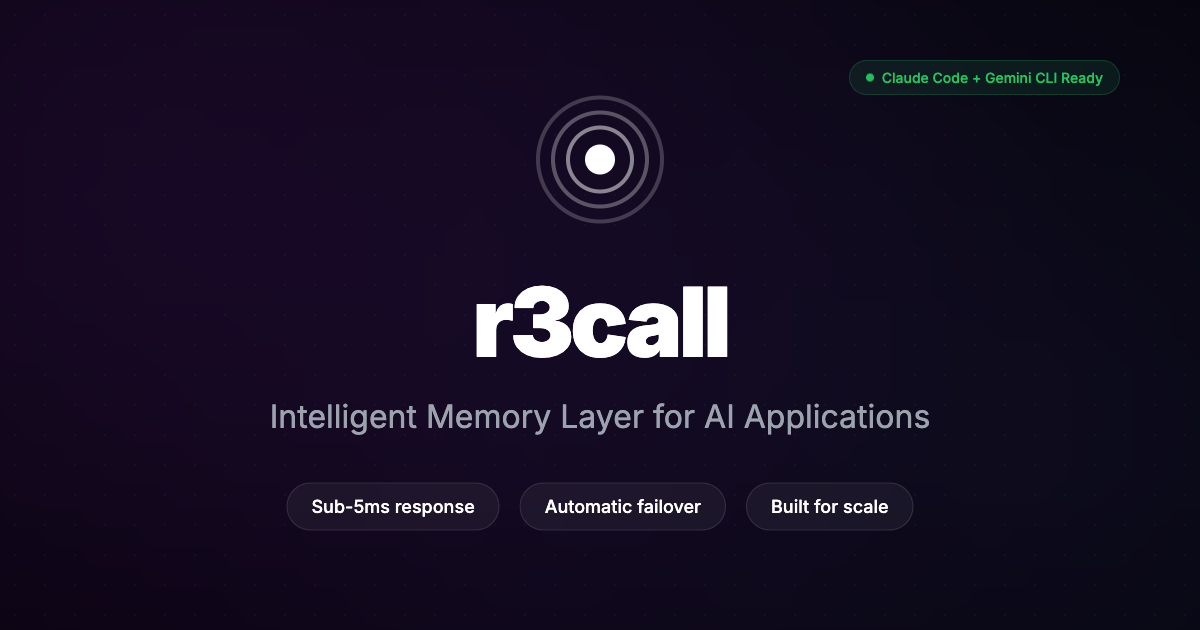
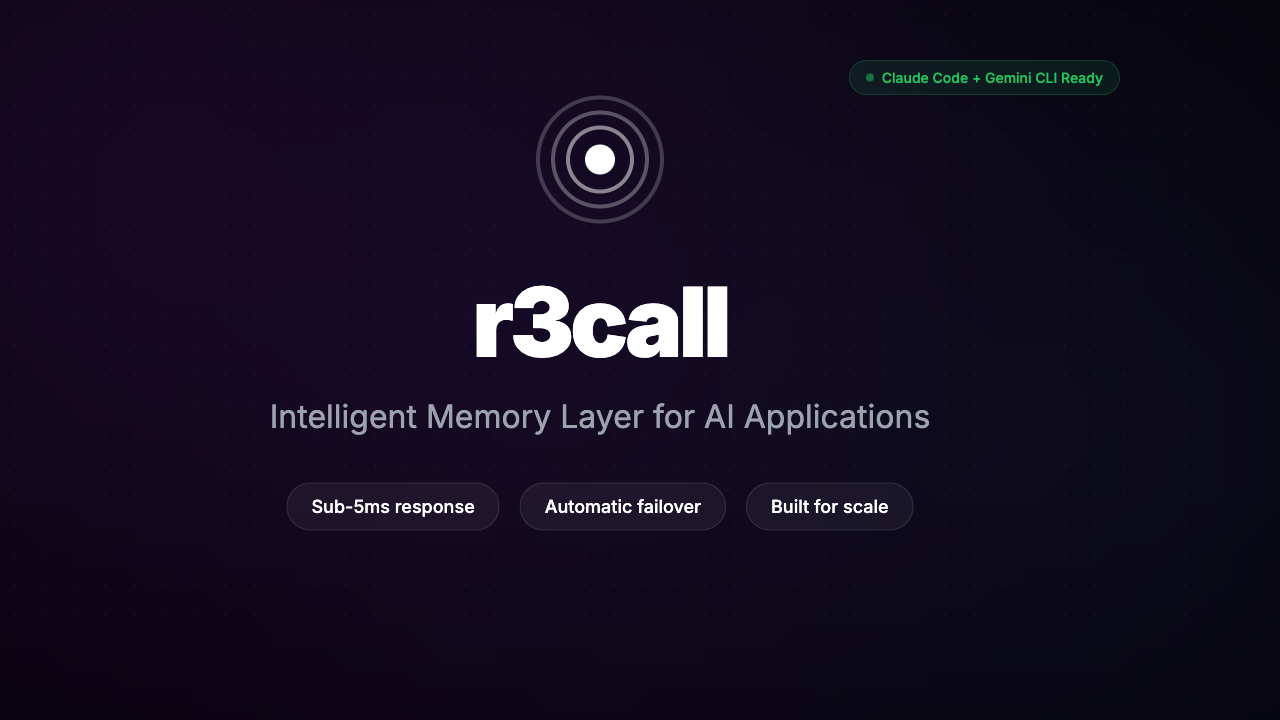
feat: update package to unscoped name and high-res og-image
- Changed package name from @newth.ai/r3call to r3call
- Published to npm as r3call v1.2.1
- Generated 2x resolution og-image (2400x1260) for sharper quality
- Updated all references to use unscoped package name
- Package now available at: npm install r3call

diff --git a/website/generate-og.html b/website/generate-og.html
@@ -1,0 +1,209 @@
+<!DOCTYPE html>
+<html>
+<head>
+  <style>
+    @import url('https://fonts.googleapis.com/css2?family=Inter:wght@400;500;600;700;900&display=swap');
+
+    body {
+      margin: 0;
+      padding: 0;
+      width: 1200px;
+      height: 630px;
+      font-family: 'Inter', -apple-system, BlinkMacSystemFont, 'Segoe UI', sans-serif;
+      background: #000000;
+      display: flex;
+      flex-direction: column;
+      align-items: center;
+      justify-content: center;
+      position: relative;
+      overflow: hidden;
+    }
+
+    /* Animated gradient background similar to website */
+    .gradient-bg {
+      position: absolute;
+      width: 200%;
+      height: 200%;
+      top: -50%;
+      left: -50%;
+      background: radial-gradient(circle at 30% 40%, rgba(147, 51, 234, 0.15) 0%, transparent 50%),
+                  radial-gradient(circle at 70% 60%, rgba(99, 102, 241, 0.1) 0%, transparent 50%),
+                  radial-gradient(circle at 50% 50%, rgba(147, 51, 234, 0.05) 0%, transparent 70%);
+      filter: blur(80px);
+    }
+
+    /* Dot grid pattern */
+    .dot-pattern {
+      position: absolute;
+      width: 100%;
+      height: 100%;
+      background-image: radial-gradient(circle, rgba(255, 255, 255, 0.03) 1px, transparent 1px);
+      background-size: 30px 30px;
+    }
+
+    .content {
+      position: relative;
+      z-index: 10;
+      text-align: center;
+      display: flex;
+      flex-direction: column;
+      align-items: center;
+      gap: 24px;
+    }
+
+    /* Logo with gradient circle */
+    .logo {
+      width: 120px;
+      height: 120px;
+      position: relative;
+      display: flex;
+      align-items: center;
+      justify-content: center;
+      margin-bottom: 30px;
+    }
+
+    .logo-circles {
+      width: 120px;
+      height: 120px;
+      position: relative;
+      display: flex;
+      align-items: center;
+      justify-content: center;
+    }
+
+    .logo-circle {
+      position: absolute;
+      border: 2px solid rgba(255, 255, 255, 0.8);
+      border-radius: 50%;
+      background: transparent;
+    }
+
+    /* Concentric circles like the actual site logo */
+    .logo-circle:nth-child(1) {
+      width: 120px;
+      height: 120px;
+      border: 4px solid rgba(255, 255, 255, 0.2);
+    }
+
+    .logo-circle:nth-child(2) {
+      width: 90px;
+      height: 90px;
+      border: 4px solid rgba(255, 255, 255, 0.3);
+    }
+
+    .logo-circle:nth-child(3) {
+      width: 60px;
+      height: 60px;
+      border: 4px solid rgba(255, 255, 255, 0.5);
+    }
+
+    .logo-circle:nth-child(4) {
+      width: 30px;
+      height: 30px;
+      background: white;
+      border: none;
+    }
+
+    .title {
+      font-size: 96px;
+      font-weight: 900;
+      color: white;
+      letter-spacing: -0.04em;
+      margin: 0;
+      line-height: 1;
+    }
+
+    .subtitle {
+      font-size: 32px;
+      font-weight: 400;
+      color: rgba(156, 163, 175, 1);
+      margin: 0;
+      line-height: 1.4;
+      max-width: 800px;
+    }
+
+    .pills {
+      display: flex;
+      gap: 20px;
+      margin-top: 20px;
+    }
+
+    .pill {
+      padding: 12px 24px;
+      background: rgba(255, 255, 255, 0.05);
+      border: 1px solid rgba(255, 255, 255, 0.1);
+      border-radius: 9999px;
+      color: white;
+      font-size: 18px;
+      font-weight: 500;
+      backdrop-filter: blur(10px);
+    }
+
+    .badge {
+      position: absolute;
+      top: 60px;
+      right: 80px;
+      background: rgba(34, 197, 94, 0.1);
+      border: 1px solid rgba(34, 197, 94, 0.2);
+      border-radius: 9999px;
+      padding: 8px 16px;
+      display: flex;
+      align-items: center;
+      gap: 8px;
+      backdrop-filter: blur(10px);
+    }
+
+    .badge-dot {
+      width: 8px;
+      height: 8px;
+      background: #22c55e;
+      border-radius: 50%;
+      animation: pulse 2s infinite;
+    }
+
+    .badge-text {
+      color: #22c55e;
+      font-size: 14px;
+      font-weight: 500;
+    }
+
+    @keyframes pulse {
+      0%, 100% {
+        opacity: 1;
+      }
+      50% {
+        opacity: 0.5;
+      }
+    }
+  </style>
+</head>
+<body>
+  <div class="gradient-bg"></div>
+  <div class="dot-pattern"></div>
+
+  <div class="badge">
+    <div class="badge-dot"></div>
+    <span class="badge-text">Claude Code + Gemini CLI Ready</span>
+  </div>
+
+  <div class="content">
+    <div class="logo">
+      <div class="logo-circles">
+        <div class="logo-circle"></div>
+        <div class="logo-circle"></div>
+        <div class="logo-circle"></div>
+        <div class="logo-circle"></div>
+      </div>
+    </div>
+
+    <h1 class="title">r3call</h1>
+    <p class="subtitle">Intelligent Memory Layer for AI Applications</p>
+
+    <div class="pills">
+      <div class="pill">Sub-5ms response</div>
+      <div class="pill">Automatic failover</div>
+      <div class="pill">Built for scale</div>
+    </div>
+  </div>
+</body>
+</html>

diff --git a/smithery.md b/smithery.md
@@ -21,7 +21,7 @@ claude mcp add r3call "npx r3call"
 
 3. **Required Information**:
    - **Package Name**: `r3call`
-   - **NPM Package**: `r3call` (or `@newth.ai/r3call` if using scoped)
+   - **NPM Package**: `r3call`
    - **Description**: Intelligent memory API with hybrid caching - Redis for speed, Mem0 for permanence
    - **Category**: AI Memory / Tools
    - **GitHub**: https://github.com/n3wth/r3call

diff --git a/SMITHERY_DEPLOY.md b/SMITHERY_DEPLOY.md
@@ -15,7 +15,7 @@ Users can install r3call via Smithery:
 npx @smithery/cli install @n3wth/r3call --client claude
 
 # Or directly via Claude
-claude mcp add r3call "npx @newth.ai/r3call"
+claude mcp add r3call "npx r3call"
 ```
 
 ## Environment Variables
